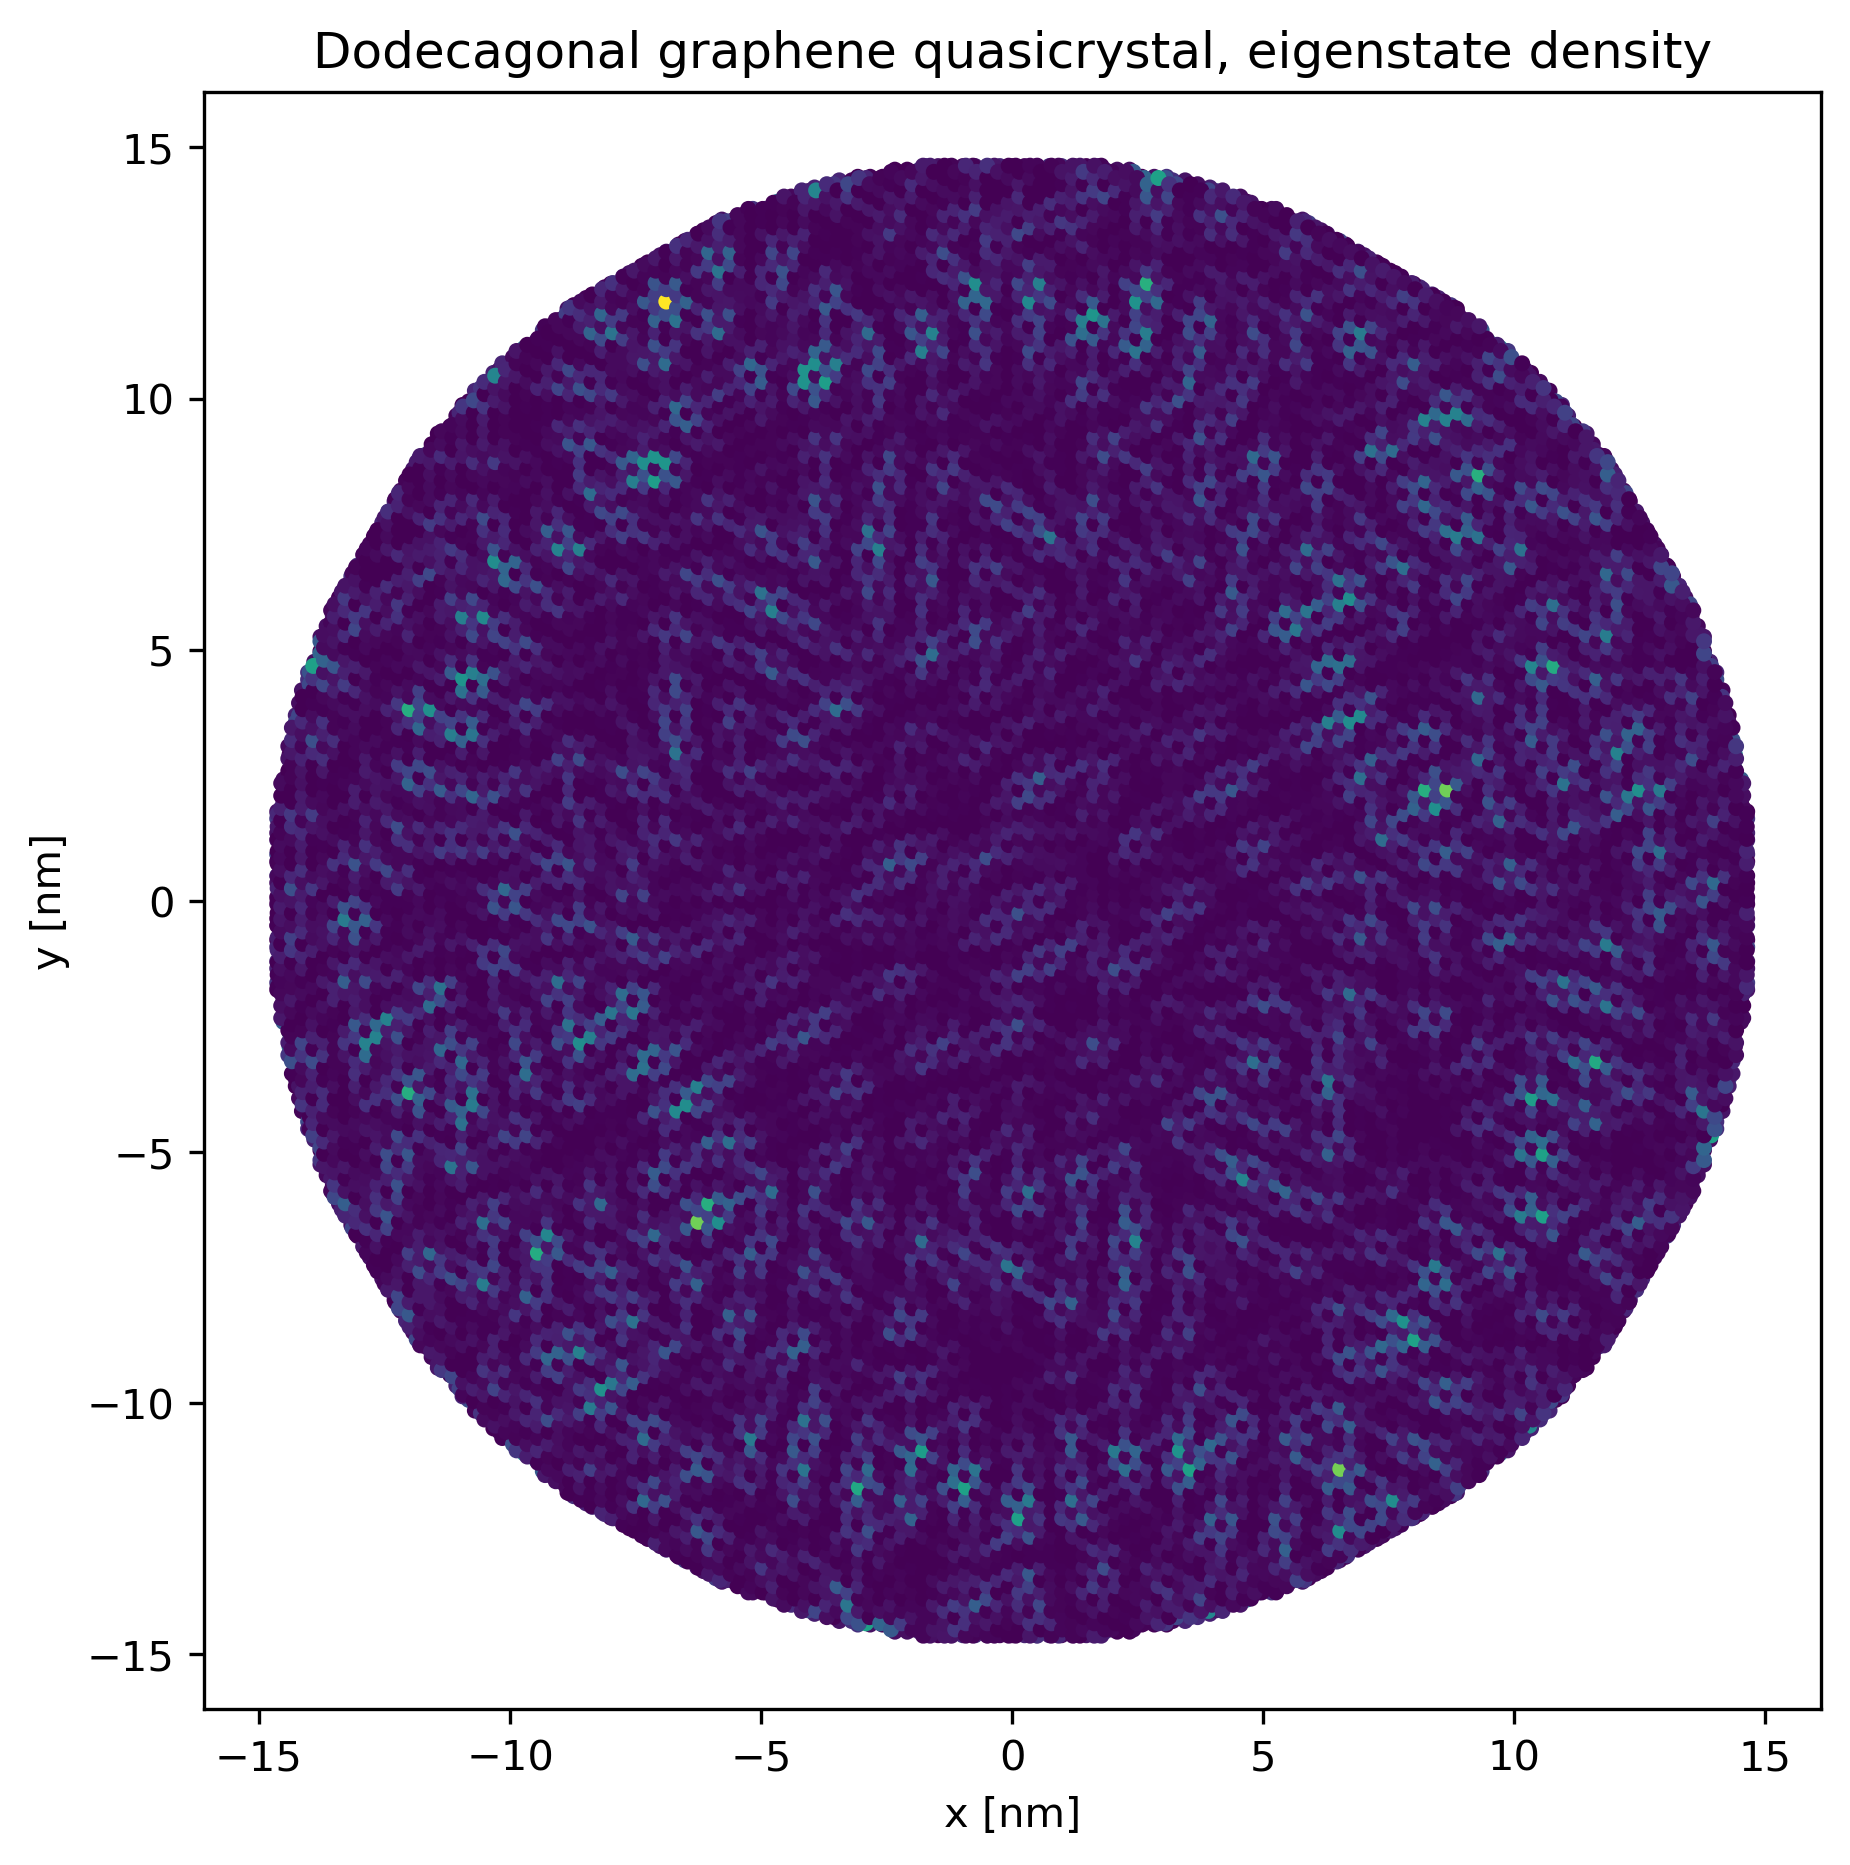
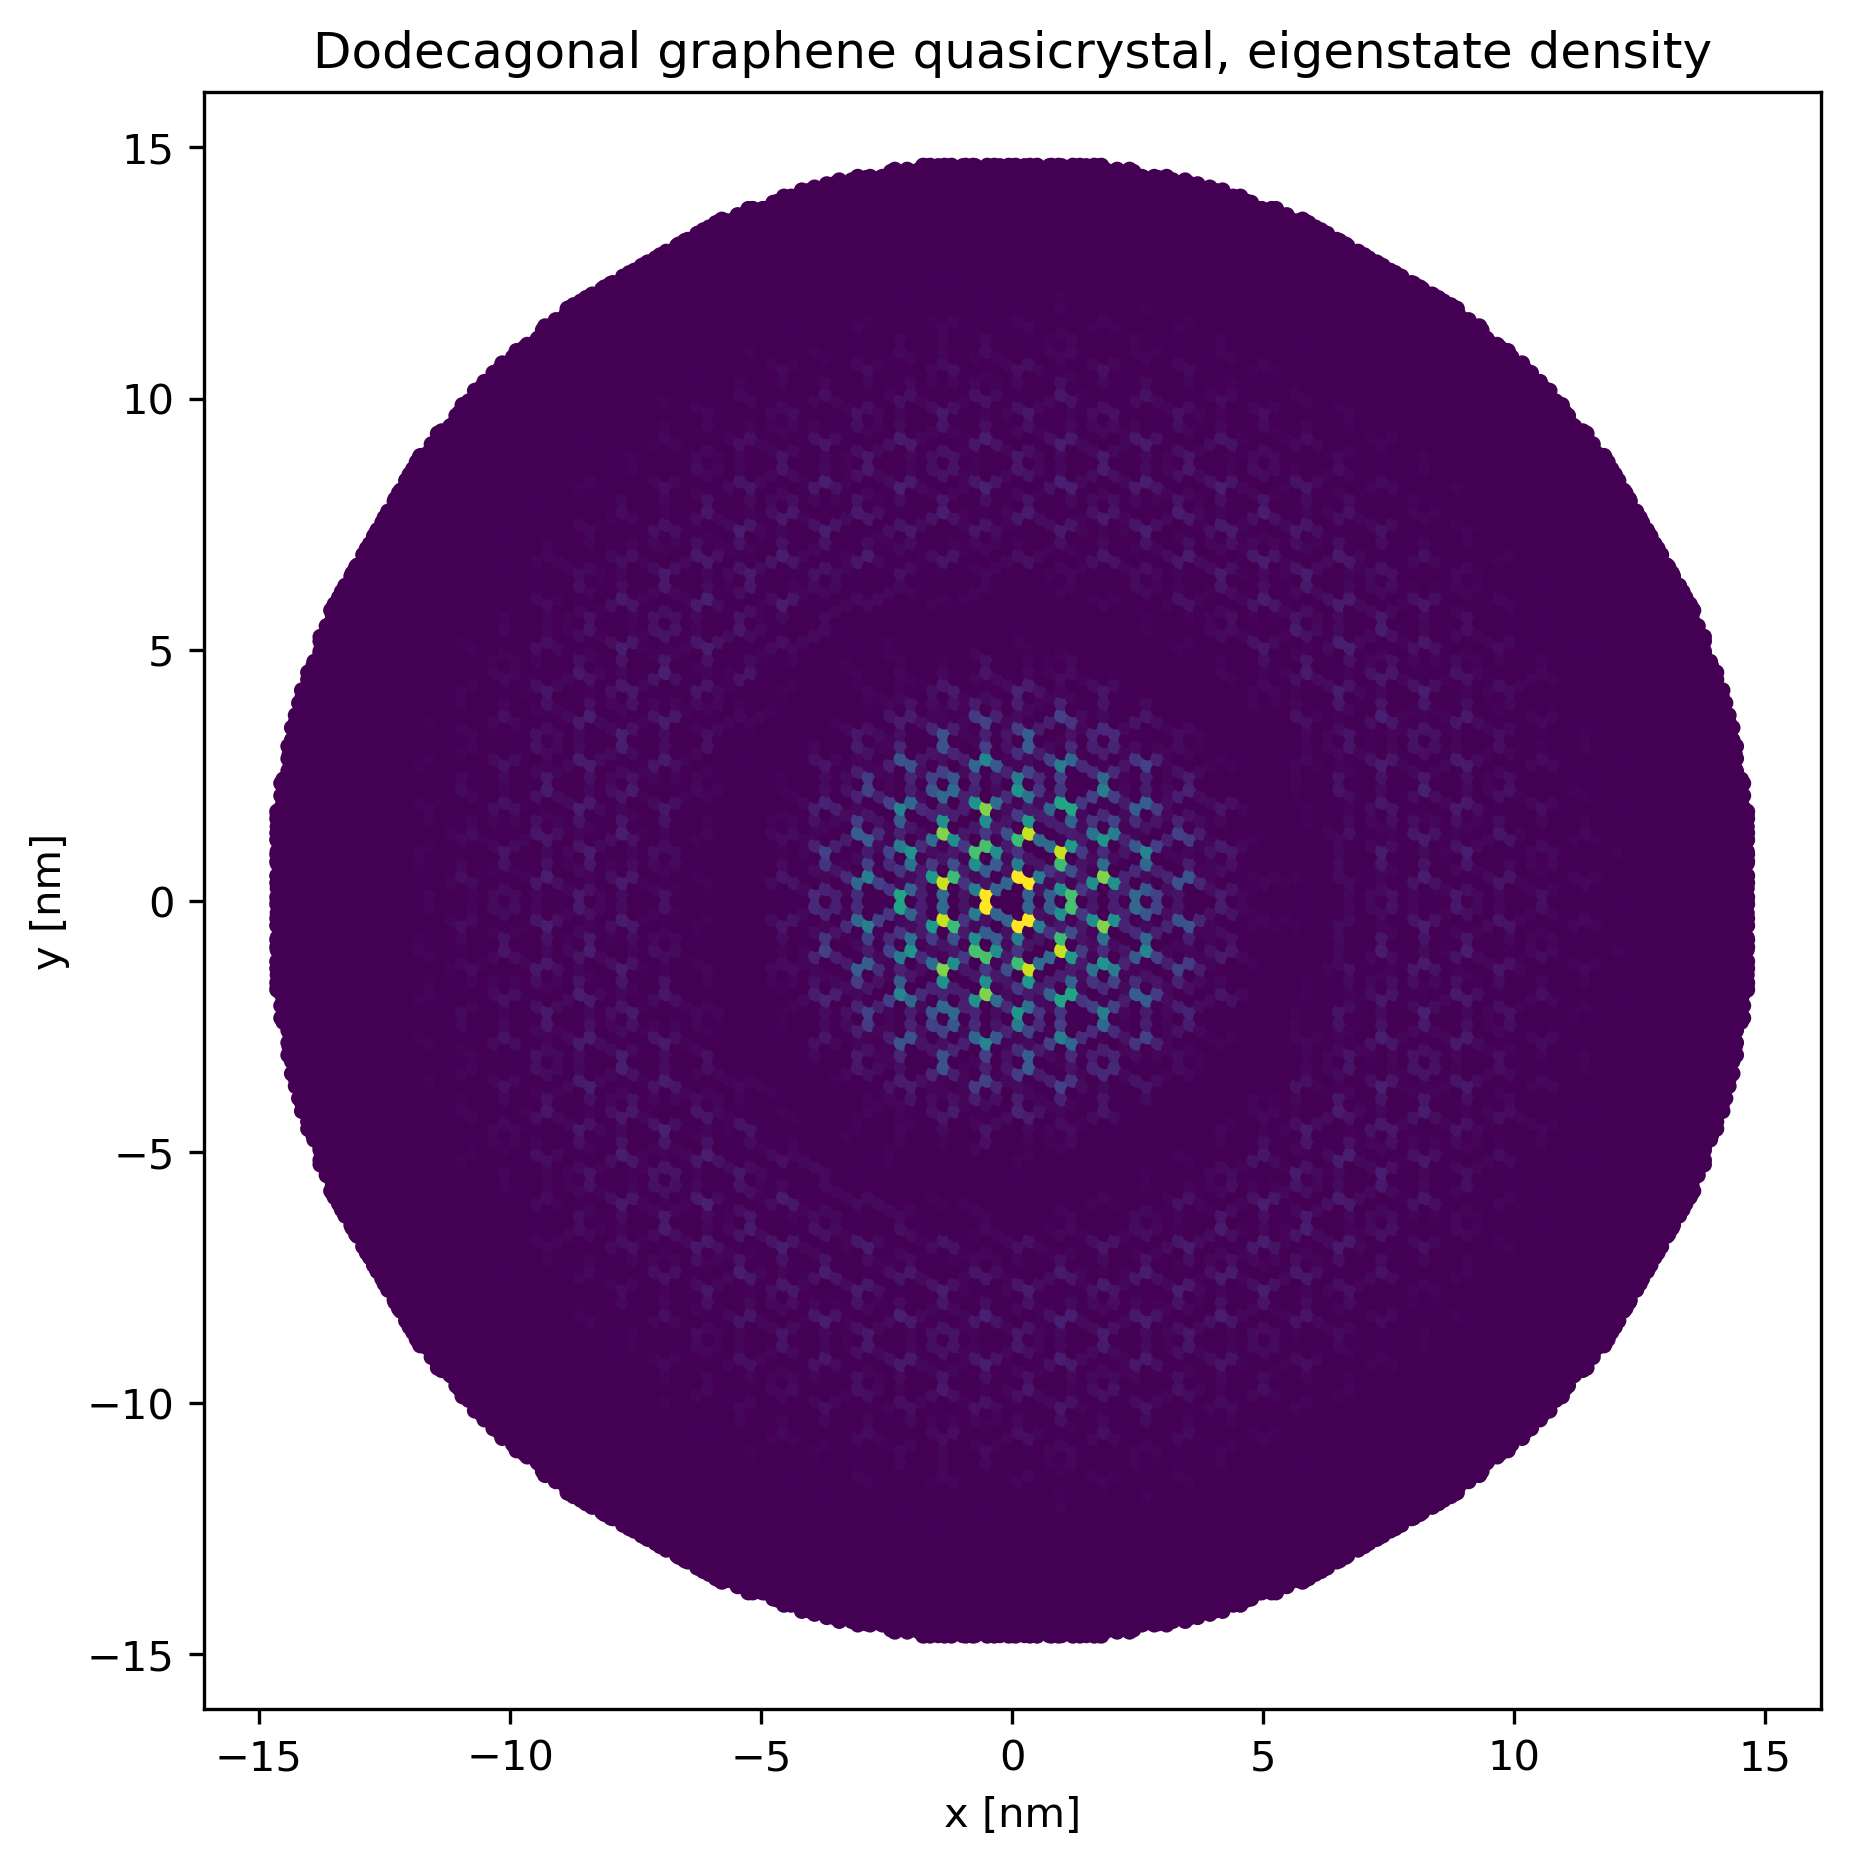
first commit

Changed region(s): [[0.1541, 0.0622, 0.9551, 0.9019]]

diff --git a/postpro.py b/postpro.py
@@ -8,7 +8,7 @@ evecs = np.load(prefix+'evecs.npy')
 sublattices_cut = np.load(prefix+'sublattices.npy')
 global_indices = np.load(prefix+'indices.npy')
 
-utils.plot_density(evecs[:,5], sublattices_cut, global_indices, filename='dodecagonal_graphene_eigenstate_density.png')
+utils.plot_density(evecs[:,3976], sublattices_cut, global_indices, filename='dodecagonal_graphene_eigenstate_density.png')
 
 es = np.linspace(evals.min(), evals.max(), 500)
 dos = np.zeros(500)
@@ -25,8 +25,15 @@ for sj, s in enumerate(sublattices_cut):
 rs = np.array(rs)
 gs = np.array(gs)
 rse = []
-for evec in evecs.T:
-    rse.append((rs*np.abs(evec[gs])**2).sum()/R2)
+lre = 1.
+ilre = -1
+for ie, evec in enumerate(evecs.T):
+    re=(rs*np.abs(evec[gs])**2).sum()/R2
+    rse.append(re)
+    if re < lre: 
+        lre = re
+        ilre = ie
+print(ilre, lre)
 
 fig, ax = plt.subplots(figsize=(7, 4))
 ax.plot(es, dos, label='DOS', color='blue')
